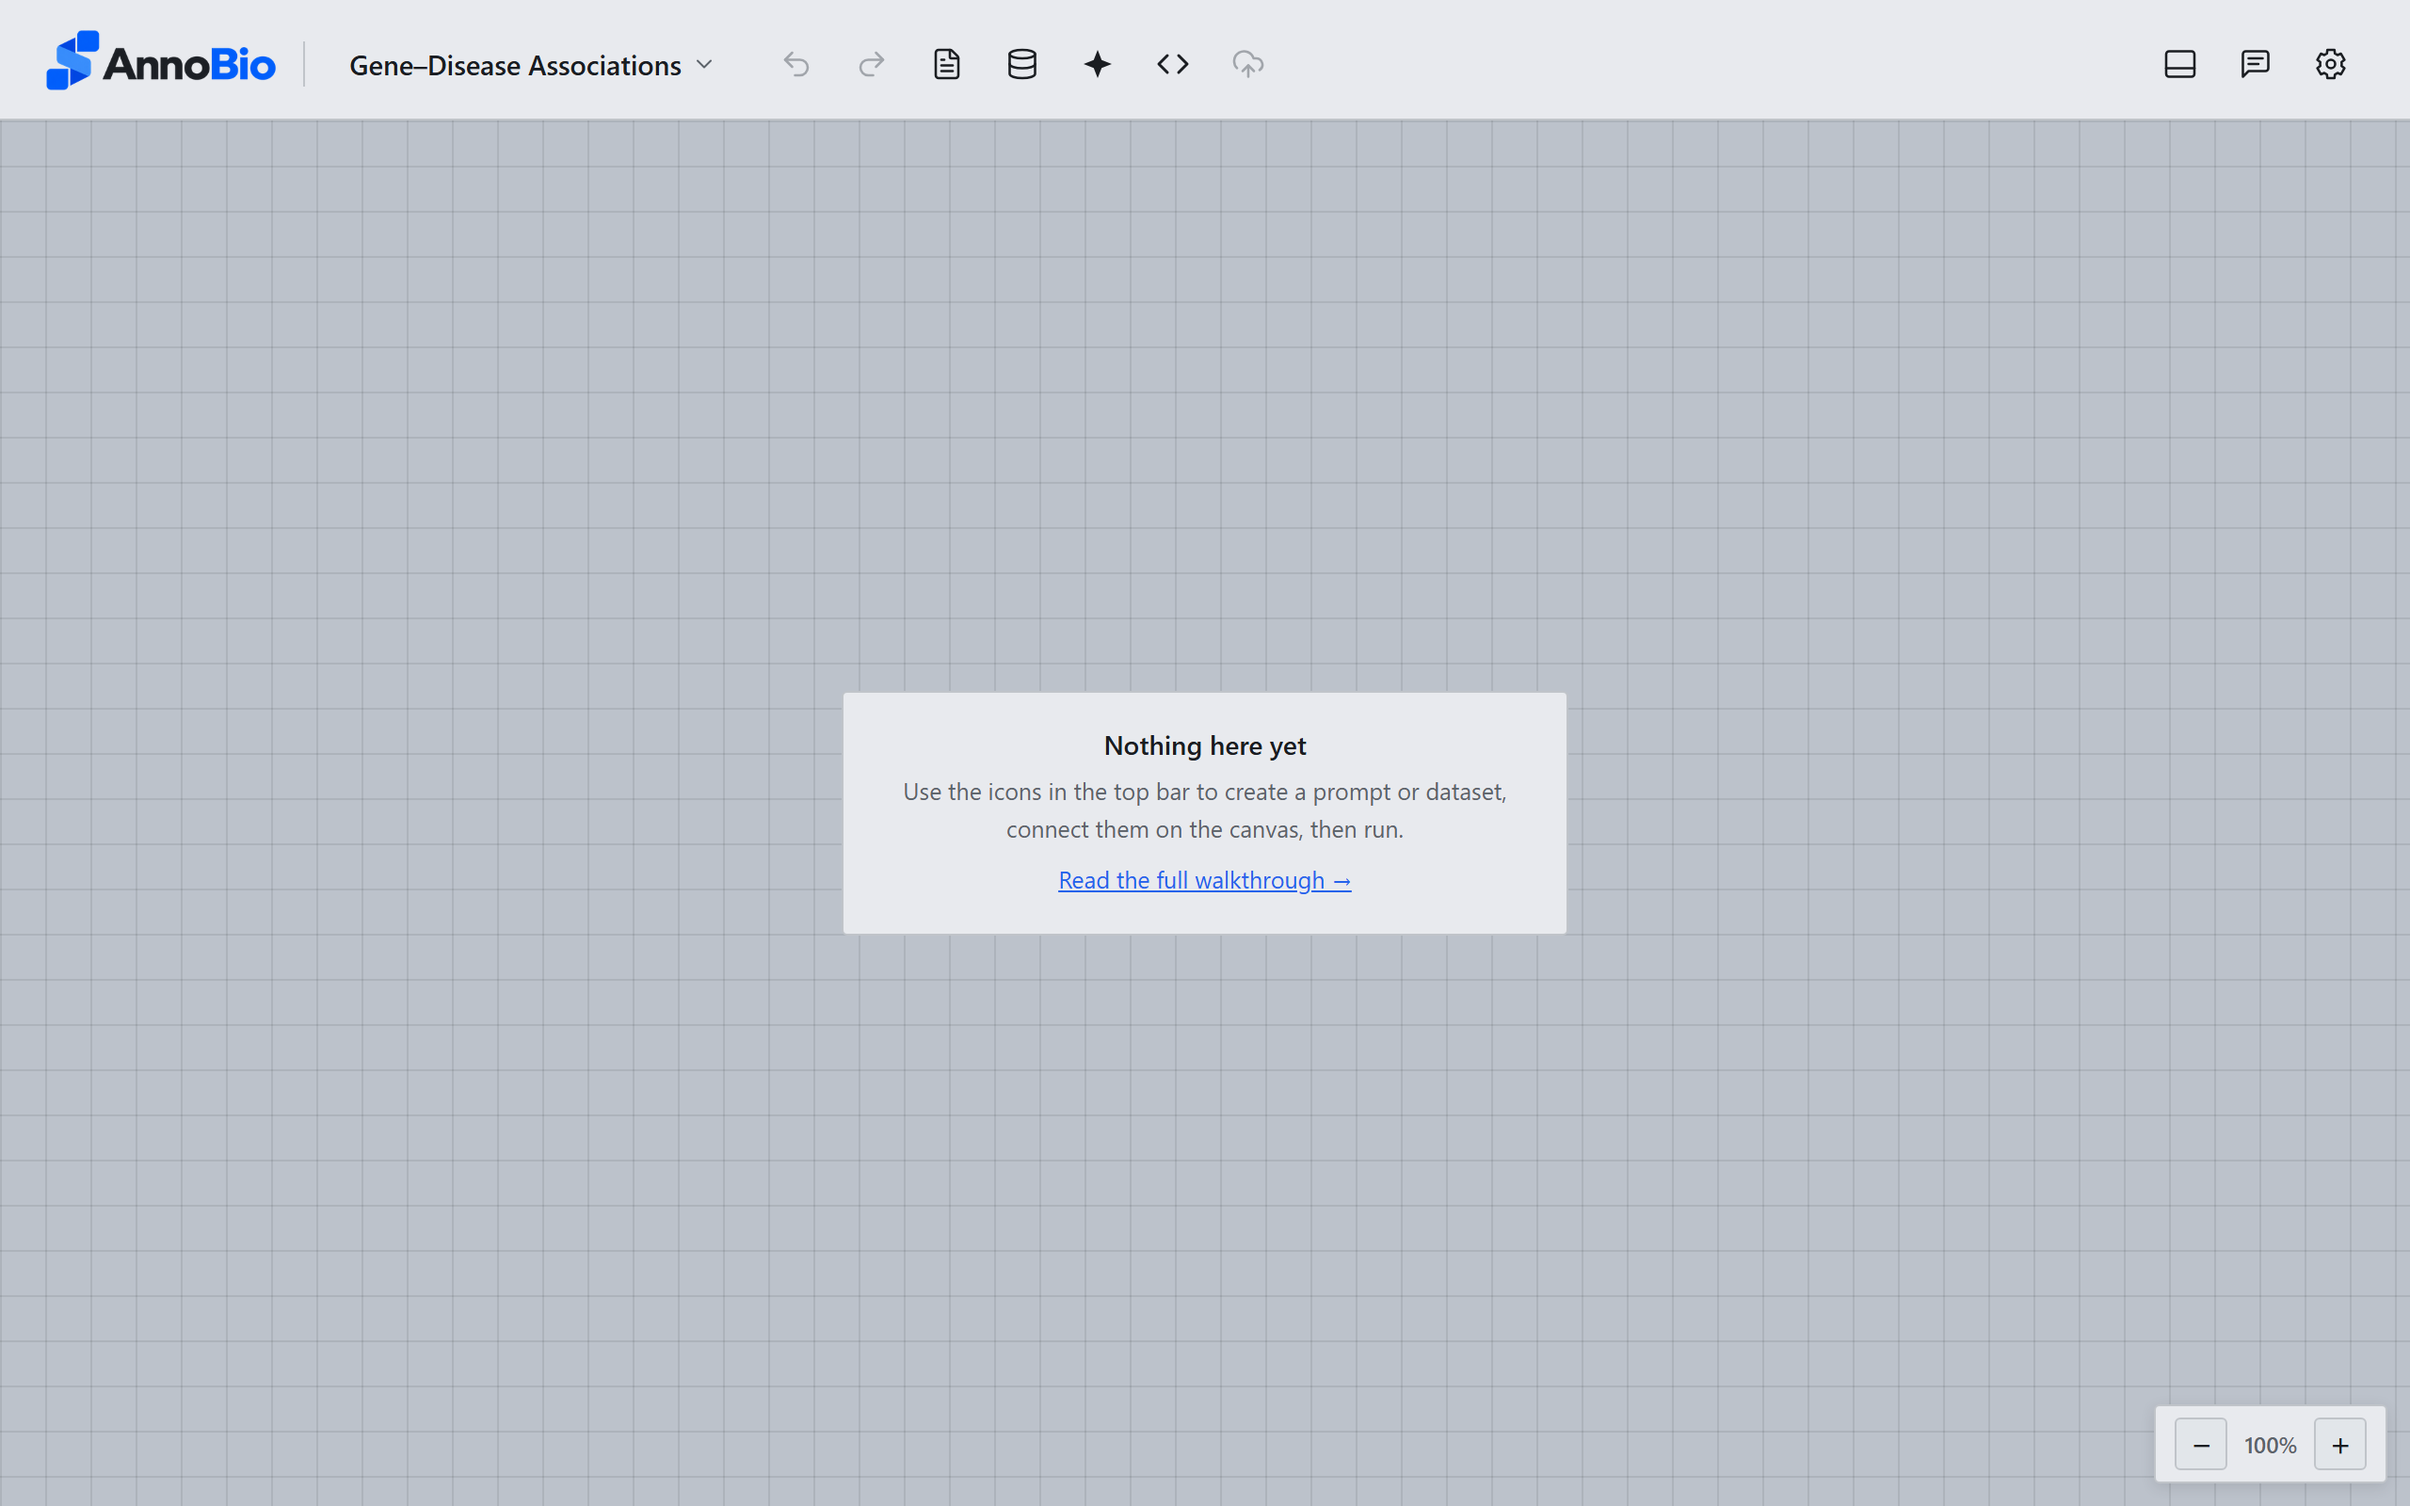
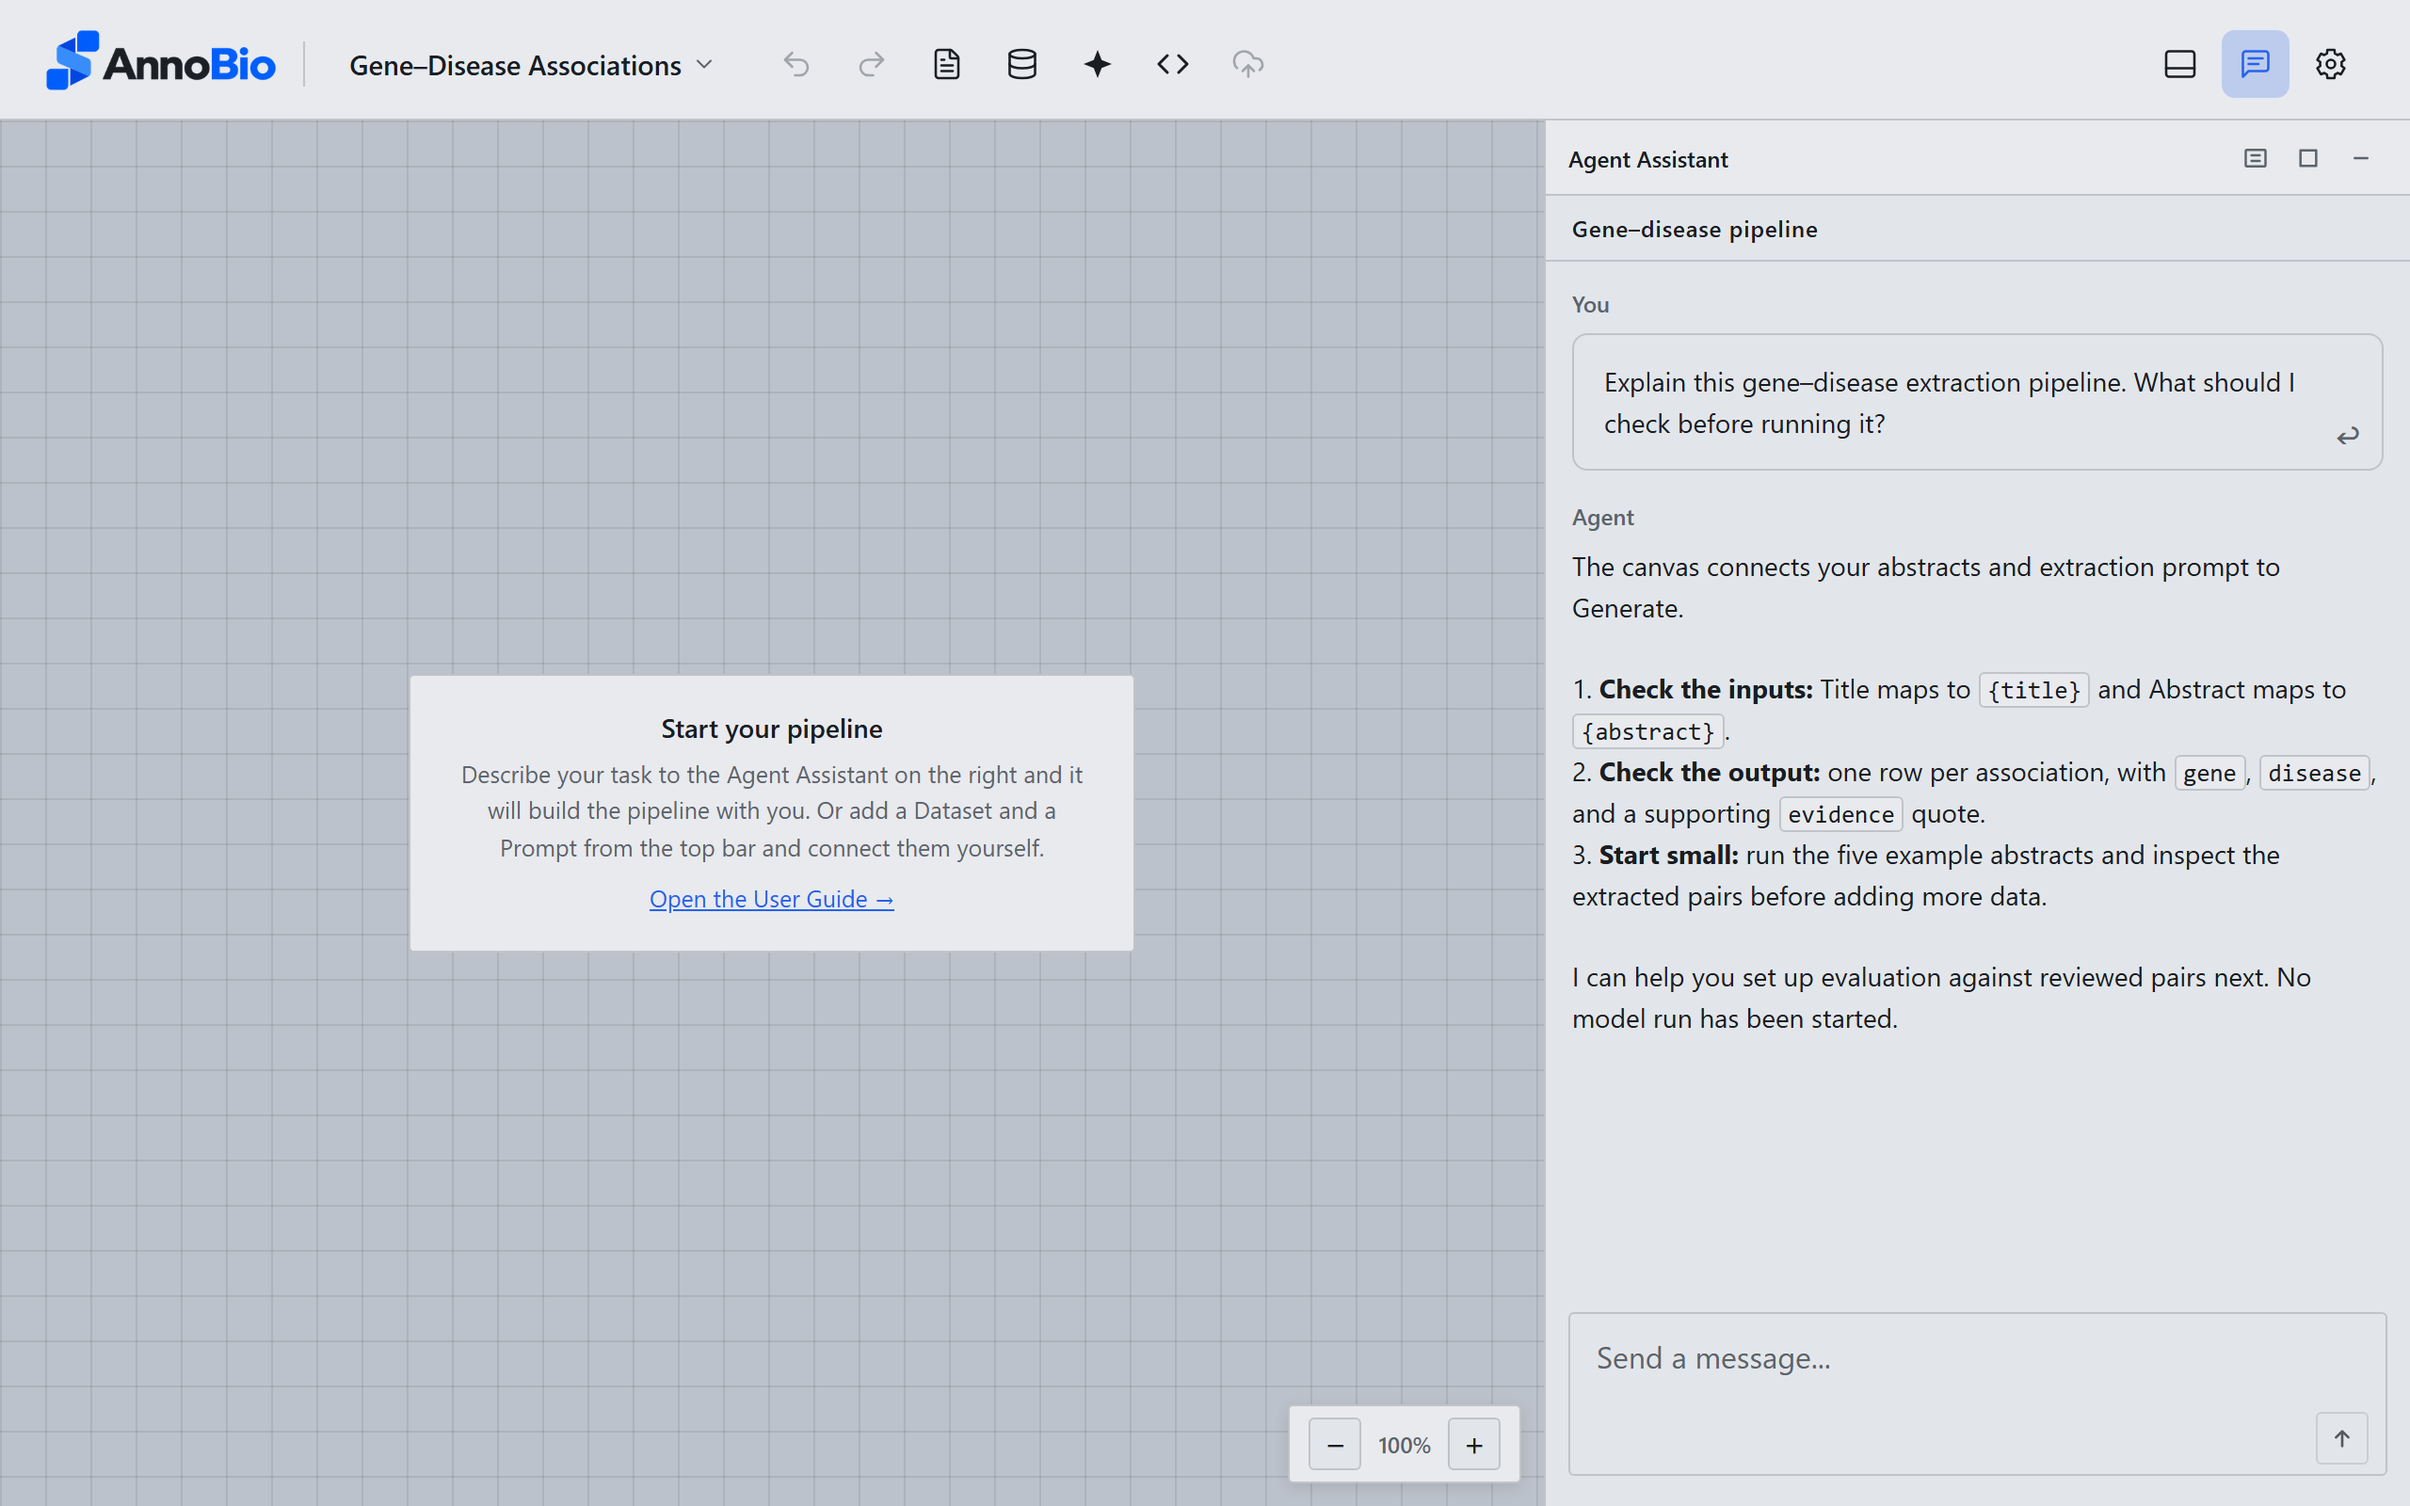
Empty canvas hint points to the Agent Assistant

diff --git a/app/src/workflowCanvas.js b/app/src/workflowCanvas.js
@@ -6281,12 +6281,13 @@ export function buildWorkflowCanvas(root, options = {}) {
     emptyState.className = 'workflow-empty-state';
     emptyState.innerHTML = `
       <div class="workflow-empty-state__box">
-        <p class="workflow-empty-state__title">Nothing here yet</p>
+        <p class="workflow-empty-state__title">Start your pipeline</p>
         <p class="workflow-empty-state__body">
-          Use the icons in the top bar to create a prompt or dataset, connect them on the canvas, then run.
+          Describe your task to the Agent Assistant on the right and it will build the pipeline with you.
+          Or add a Dataset and a Prompt from the top bar and connect them yourself.
         </p>
         <p class="workflow-empty-state__link">
-          <a href="/guide" target="_blank" rel="noopener">Read the full walkthrough &rarr;</a>
+          <a href="/guide" target="_blank" rel="noopener">Open the User Guide &rarr;</a>
         </p>
       </div>
     `;
